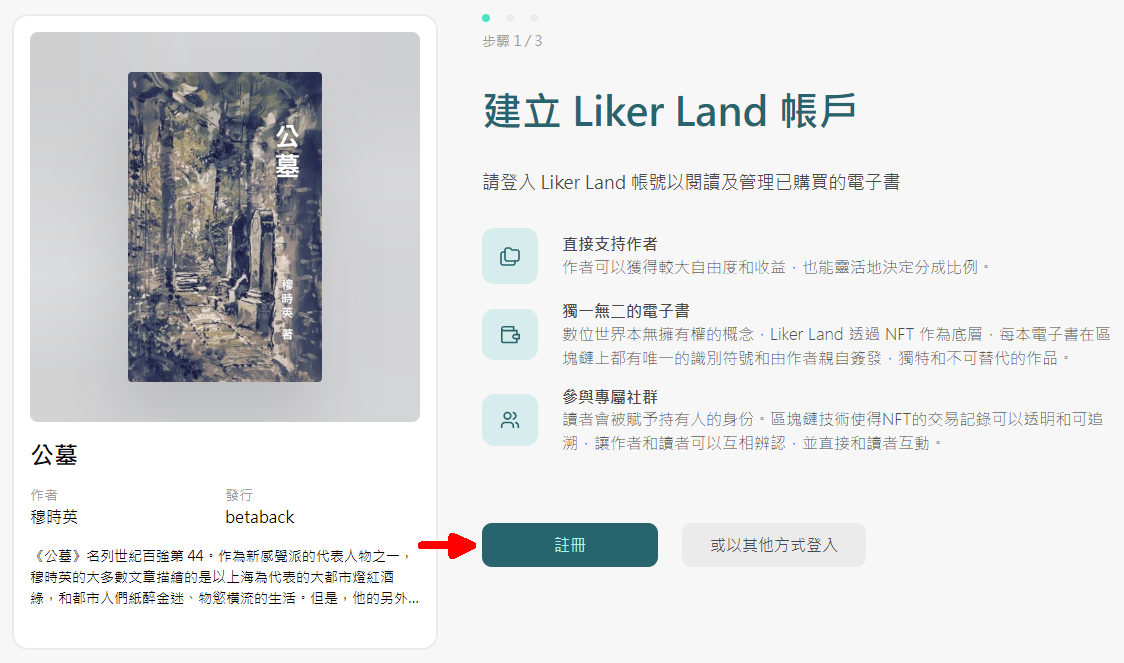
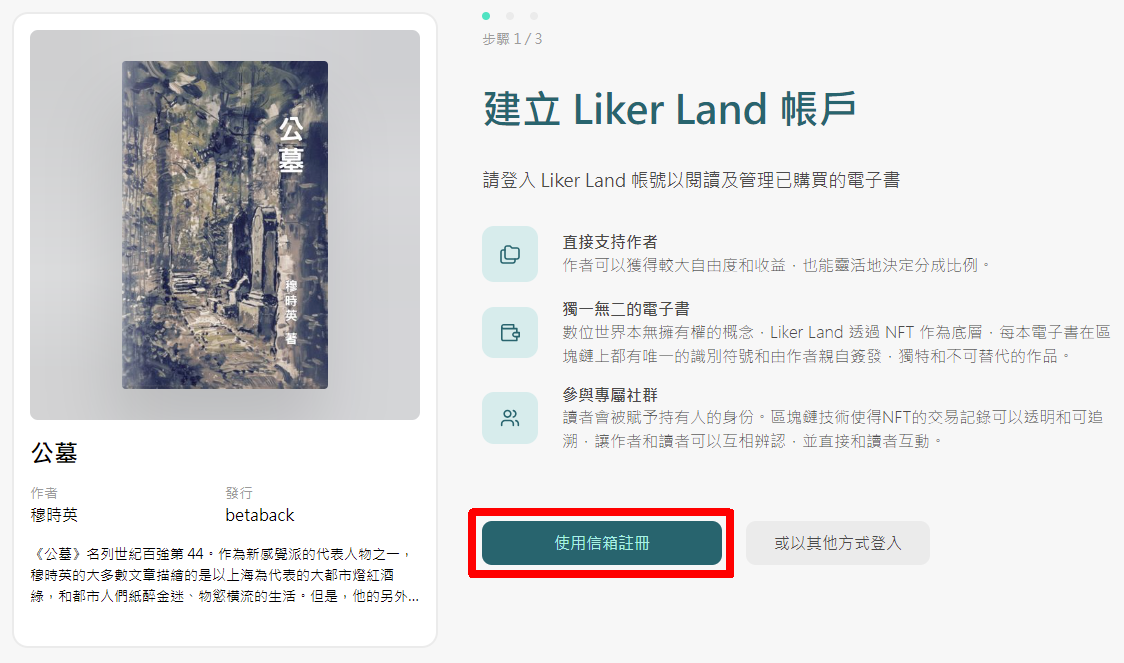
GITBOOK-4632: 購買 NFT 電子書

diff --git a/depub/nft-ebook/README.md b/depub/nft-ebook/README.md
@@ -34,7 +34,7 @@ description: 如何購買 NFT 電子書
 
 ## 步驟五：連結 Liker Land 帳號 <a href="#step-5" id="step-5"></a>
 
-點「註冊」或「或以其他方式登入」註冊或登入 Liker Land 帳號。
+點「使用信箱註冊」或「或以其他方式登入」註冊或登入 Liker Land 帳號。
 
 <figure><img src="../../.gitbook/assets/Collect NFT Book 6.png" alt=""><figcaption><p>註冊或登入 Liker Land 帳號</p></figcaption></figure>
 
@@ -50,7 +50,7 @@ description: 如何購買 NFT 電子書
 
 <figure><img src="../../.gitbook/assets/Collect NFT Book 8.png" alt=""><figcaption><p>輸入留給作者的說話再點「確認」</p></figcaption></figure>
 
-## 步驟八：𢦓功領取電子書 <a href="#step-8" id="step-8"></a>
+## 步驟八：成功領取電子書 <a href="#step-8" id="step-8"></a>
 
 出現你已成功領取電子書頁面，你也可以點「檢視收藏」查看已購買的 NFT 電子書。
 
